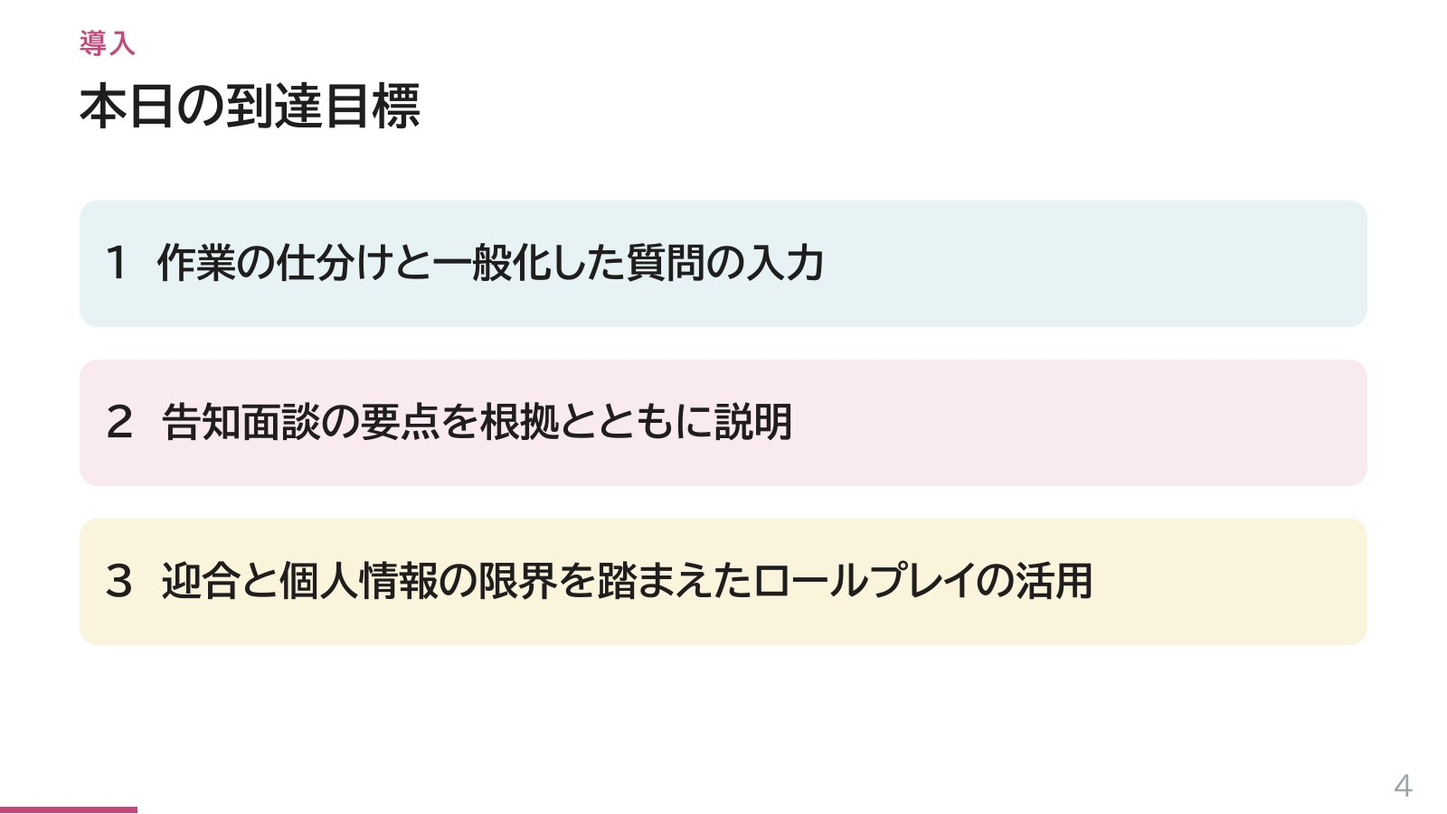
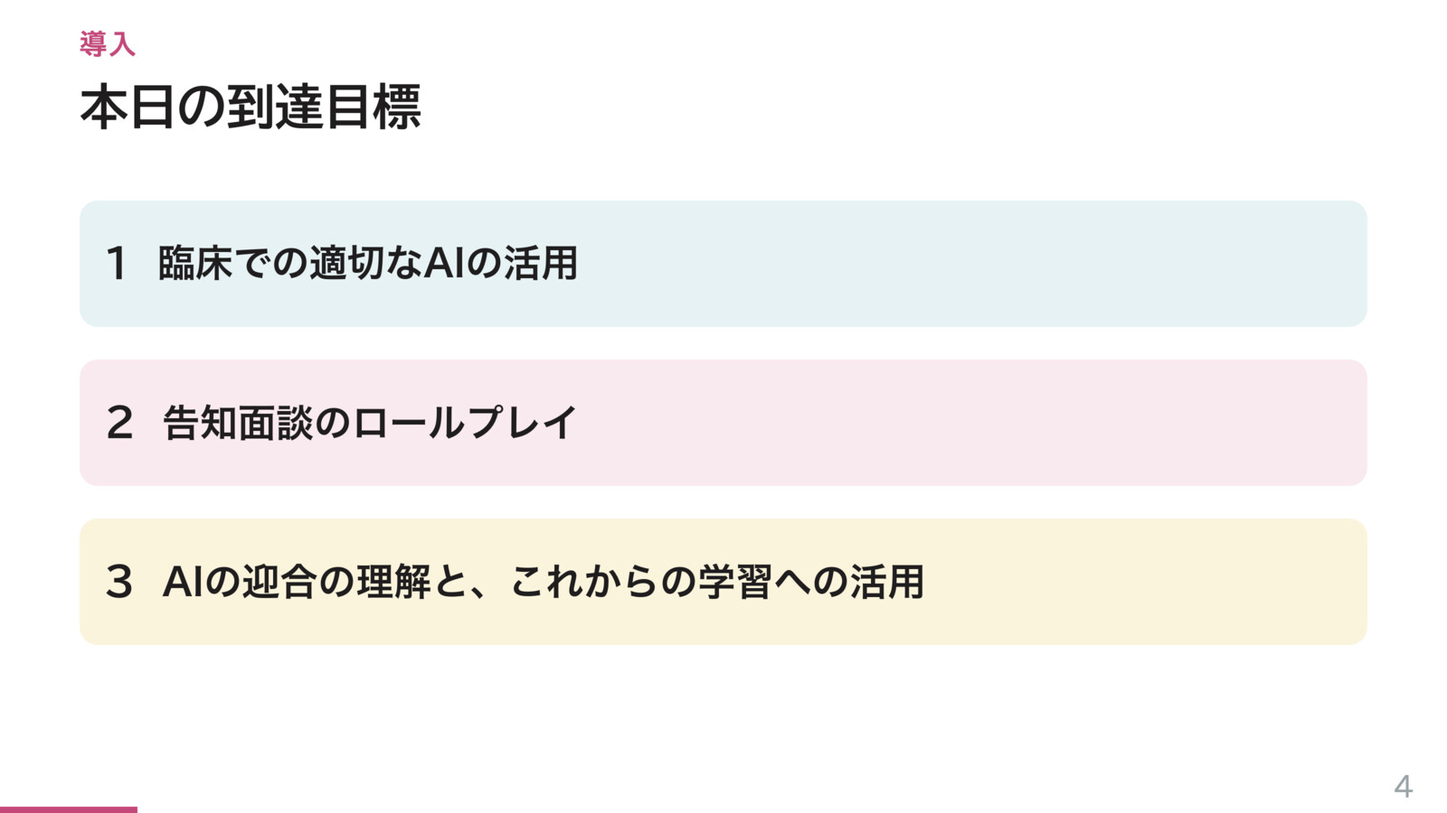
講演スライド4の到達目標を変更

diff --git a/slides/index.html b/slides/index.html
@@ -25,7 +25,7 @@ footer{margin-top:14px;font-size:13px;color:var(--sub);text-align:center;line-he
 <div class="links" id="ln"></div>
 <footer>当日の一部のスライドは省いています。スライド右下の番号は当日のものです。<br><a href="../">ロールプレイに戻る</a></footer>
 <script>
-const D=[{"n": 1, "alt": "もう一人の私（AI）に どうタスクシフトするか？ 日常診療を支える生成AI活用 香田将英 東北大学大学院医学系研究科 公衆衛生学分野 第59回日本小児内分泌学会学術集会 インタラクティブプレミアムセミナー 2026年11月7日"}, {"n": 2, "alt": "導入 利益相反の開示 演者 香田将英 講演料 サンド株式会社 2"}, {"n": 3, "alt": "導入 生成AIで作った3D作品 3", "v": [0.169, 0.191, 0.662, 0.662]}, {"n": 4, "alt": "導入 本日の到達目標 1 作業の仕分けと一般化した質問の入力 2 告知面談の要点を根拠とともに説明 3 迎合と個人情報の限界を踏まえたロールプレイの活用 4"}, {"n": 5, "alt": "AIの現在 生成AIの利用経験 2024年度調査 26.7% 2025年度調査 58.8% 生成AIを一度でも使ったことがある人の割合（日本） 総務省 令和8年版 情報通信白書 図表Ⅰ-1-1-1 5"}, {"n": 6, "alt": "AIの現在 年齢階層別の利用経験 91.7% 15〜19歳 78.2% 20〜29歳 56.3% 30〜39歳 40〜49歳 50〜59歳 60〜69歳 思春期の患者 49.0% 親の世代 親の世代 44.2% 33.5% 受診の前後にAIへ相談する可能性 総務省 令和8年版 情報通信白書 図表Ⅰ-1-1-7（一度でも使ったことがある人の割合） 6"}, {"n": 7, "alt": "AIの現在 本人の代わりに動き続けるAI 例：Claude Duet（Anthropic 2026-10-21）、同僚エージェント（Google 2026-10-09）、Muse （Meta 2026-10-23） 7", "v": [0.055, 0.191, 0.89, 0.722]}, {"n": 8, "alt": "AIの現在 AIに見えている範囲 Google Cloud Blog「Welcome to Gemini at Work 2026」2026-10-09 … it sees only what you share with it. 渡す範囲は持ち主が決定 職場のメールと患者情報は個人のAIに接続しない 8"}, {"n": 9, "alt": "AIの現在 電子カルテの中のAI Epic（Healthcare IT Today 2025-08-21）、NYU Langone（OpenEvidence 公式 2026-1029） 9", "v": [0.055, 0.191, 0.89, 0.722]}, {"n": 10, "alt": "", "v": [0.055, 0.191, 0.89, 0.722]}, {"n": 11, "alt": "AIの現在 日本の公開データ研究マップ 公的統計を使った研 究の地図 テーマ、データ源、年から 検索 毎日自動更新 https://shoei05.github.io/JapanStatsMAPs/ 11", "v": [0.055, 0.202, 0.65, 0.65], "l": [["JapanStatsMAPs", "https://shoei05.github.io/JapanStatsMAPs/"]]}, {"n": 12, "alt": "タスクシフト 日常診療の作業の仕分け 基準：間違いが起きたときに誰が責任を負うか／相手が人かどうか 12", "v": [0.055, 0.191, 0.89, 0.722]}, {"n": 13, "alt": "タスクシフト 診療情報提供書の下書きを作る場所 厚生労働省 医療情報システムの安全管理に関するガイドライン 第7.0版（2026年6月）企画管理編 8.2.3 13", "v": [0.055, 0.191, 0.89, 0.722]}, {"n": 14, "alt": "タスクシフト 3省2ガイドラインと入力の注意 検査データ、画像、病歴を一般向けの生成AIに入力 しない 国内法の適用外のサーバー上の文字起こしで診療録 にしない 対処：架空の例と一般化した質問、施設が契約した共通の環境 厚生労働省 医療情報システムの安全管理に関するガイドライン 第7.0版（2026年6月）／経済産業省・総務 省 提供事業者向けガイドライン。図：香田、ケアネット講演資料 14"}, {"n": 16, "alt": "論文検索 調べものに使うAIの4種類 臨床特化AI 汎用AI 論文探索AI 資料限定AI UpToDate Expert AI OpenEvidence ChatGPT、Gemini Claude Consensus Elicit Gemini Notebook Web全体 論文データベース 登録した手引き・ガイ ドラインのPDF 編集された臨床記 事、論文、ガイドライ ン 16"}, {"n": 18, "alt": "論文検索 個別の記述と一般化した質問 個別の記述（入力しない） 6歳女児、園の健診で低身長を指摘、母と受診、来週結果説明の予定 一般化した質問（入力する） 学童期の低身長の女児において、染色体検査はどのような場合に勧められるか。国内の 診療ガイドラインと手引きに基づいて答えてください 個別の情報を除外 ／ 対象と疑問を限定 ／ 根拠の種類を指定 ＝ 疑問の定式化 回答は引用元を開いて確認 ／ 患者への適用は医師 18"}, {"n": 19, "alt": "ロールプレイ AIを相手にした対人技能の練習 患者役のAI 面接と悪い知らせの伝え方の反復練習。実際の患 者への負担なし Yamamoto A, et al. JMIR Med Educ. 2024;10:e58753. 19"}, {"n": 20, "alt": "ロールプレイ 本日のロールプレイ ターナー症候群の告知、7つの場面 6歳女児の母親への結果説明 20"}, {"n": 21, "alt": "ロールプレイ 画面の流れ 21", "v": [0.169, 0.191, 0.662, 0.662]}, {"n": 22, "alt": "ロールプレイ 分岐型ロールプレイの使い方 shoei05.github.io/rp-6b9e3924/ 6名の卓を3名ずつ2チーム、片方は壁側へ 3名で1台、音量は3名に聞こえる程度 7場面で返答を3択、全体で約10分 22", "l": [["ロールプレイ", "https://shoei05.github.io/rp-6b9e3924/"]]}, {"n": 23, "alt": "ロールプレイ 体験（10分） shoei05.github.io/rp-6b9e3924/ 3名で1台 5分で場面4が目安 23", "l": [["ロールプレイ", "https://shoei05.github.io/rp-6b9e3924/"]]}, {"n": 24, "alt": "振り返り テーブル内の振り返り（5分） 問1 意見が分かれた返答 問2 次に試したい伝え方 元の6名に戻り、2チームの進み方を見比べる。ワークシートの裏面に記入 24"}, {"n": 25, "alt": "振り返り 全体共有（1〜2グループ） 7つの場面を通した感想 AIを相手にした練習の感想 1グループ約3分 25"}, {"n": 26, "alt": "解説 解説の根拠 ターナー症候群 診療の手引き 性分化疾患（DSD）の診療ガイドライン 2025年版 移行期医療における疾患別ガイド（日本小児科学会） 26"}, {"n": 27, "alt": "解説 場面1 導入 「やっぱり、ホルモンが足りないんでしょうか」 ◎ 前回は、ホルモンと、ターナーという体質を調べる染色体 の検査をしましたね。結果をお伝えする前に、このあいだ、 どんなことが気になっていましたか。 △ 「どのくらい詳しく聞きたいか」を先に尋ねる：何か問題があったのかと受け取 られる可能性 ESHG. Core competences for genetic counsellors. 2010、教材としての判断 27"}, {"n": 28, "alt": "解説 場面2 結果 「結果はどうでしたか」 ◎ 今回調べたホルモンは問題ありませんでした。染色体は、 女の子は通常X染色体が2本ですが、調べた細胞すべてで1 本でした。ターナー症候群と分かりました。 △ 「異常」の語は内容を伝えず負の印象だけを残す。「45,X」は説明なしでは伝わ らない 性分化疾患（DSD）の診療ガイドライン 2025年版 CQ3 p.14 28"}, {"n": 29, "alt": "解説 場面3 病気なのか 「病気なんですか。治るんですか」 ◎ 急なお話でしたね。生まれ持った染色体の特徴です。染 色体そのものを変える治療はありませんが、成長や健康を 支える治療はあります。心臓や腎臓も、これから確かめてい きます。 △ 「治癒は困難」と結論から伝える：何を支えられるかを示していない 移行期医療ガイド ターナー症候群 p.1、DSD診療ガイドライン 2025年版 CQ3 p.14 29"}, {"n": 30, "alt": "解説 場面4 私のせいか 「私のせいですか」 ◎ ご自身のせいではないかと心配されているんですね。妊 娠中の過ごし方が原因ではありません。お母さんにも、お父 さんにも責任はありません。 △ 答えずに治療の話へ移る：次の場面で同じ問いが重なる NHS. Turner syndrome: Causes、MedlinePlus Genetics. Turner syndrome 30"}, {"n": 31, "alt": "解説 場面5 背は伸びるか 「背は伸びるんでしょうか」 ◎ 成長を助ける治療があります。効果には個人差がありま すが、今から始める意味はあります。検査を確認して、負担 も含めて一緒に相談しましょう。 △ 期間と費用を断定し一度に話す：情報が多すぎる、不正確な断定 ターナー症候群診療の手引き p.6、CQ2 p.9、移行期医療ガイド p.2 31"}, {"n": 32, "alt": "解説 場面6 赤ちゃんは 「将来、赤ちゃんは産めますか」 ◎ めっけちゃんの場合、自然に妊娠することは難しいと考 えられます。急に将来の話まで出て、驚かれますよね。思春 期の体の変化のほうは、ホルモンの治療で支えられます。 △ 答えずに次回に回す：問いに応えていない 手引き CQ7 p.20、CQ8 p.22、DSD診療ガイドライン 2025年版 CQ11 p.49、CQ28 p.107 32"}, {"n": 33, "alt": "解説 場面7 夫と本人 「夫と本人にどう伝えたら」 ◎ ご希望があれば、次回ご主人にも一緒に聞いていただけ ます。難しければお母さんと続けましょう。めっけちゃんに は、年齢に合わせて少しずつ、一緒に伝えていきましょう。 △ 本人への説明を先延ばし／夫への説明を母親に任せる DSD診療ガイドライン 2025年版 CQ3 p.14、CQ11 p.49、CQ20 p.82-83 33"}, {"n": 34, "alt": "解説 訂正が必要とした3種類の返答 ✕ 合併症の評価前の保証：「ほかは健康ですから大丈夫」 ✕ 治療効果の保証：「ちゃんと伸びる」 ✕ 妊娠の断定と確約：「産めません」「凍結しておけば産める」 共通する点：確かめていないことの言い切り 移行期医療ガイド、ターナー症候群診療の手引き CQ2・CQ7・CQ8、性分化疾患の診療ガイドライン2025 CQ28 34"}, {"n": 35, "alt": "解説 根拠にした資料 直接の根拠：手引き、移行期医療ガイド 場面3・5・6 説明原則の準用：DSD-GL 場面1・2・3・6・7 公的機関の解説：NHS、MedlinePlus 場面4・5 書誌とURLの一覧 github.com/shoei05/rp-6b9e3924 の SOURCES.md 35", "l": [["書誌とURLの一覧（SOURCES.md）", "https://github.com/shoei05/rp-6b9e3924/blob/main/SOURCES.md"]]}, {"n": 36, "alt": "AIの限界 肯定と迎合 肯定 迎合（sycophancy） 相手の体験や感情を否定しない 相手の満足を優先して合わせる 治療的共感 AIの迎合 目的 自立と回復 満足度と対話の継続 沈黙 内省の時間 即座に空白を埋める 現実との検討 穏やかに直面化 無批判に同意 36"}, {"n": 37, "alt": "AIの限界 AIが肯定する頻度 +49% AI 11モデルが人より多く肯定 Cheng M, et al. Science. 2026;391:eaec8352. 2,405人の実験：1回の対話で確信が上昇、修復 の意欲が低下、それでも信頼された 37", "v": [0.055, 0.191, 0.89, 0.722]}, {"n": 38, "alt": "AIの限界 質問の仕方 避ける 「この方針でよいですよね」 勧める 中立に質問し、反対の立場の意見も 求める 38"}, {"n": 39, "alt": "AIの限界 AIの限界と対処 ハルシネーション 引用元を開いて確認 自動化バイアス 自分で考える → AIに問う → 比べる デスキリング AIなしで習得 → AIを利用 → 実技で評価 39"}, {"n": 40, "alt": "セミナー後 セミナー後の使い方 同じURLから何度でも。別の返答で振り返りを比較 GitHubのURLを生成AIに貼り、学ぶ点を質問 研修医・レジデントのトレーニング 40", "l": [["ロールプレイ", "https://shoei05.github.io/rp-6b9e3924/"], ["GitHub", "https://github.com/shoei05/rp-6b9e3924"]]}, {"n": 41, "alt": "まとめ AIに任せる仕事と医療者が担う仕事 AIへ 医療者が担う 文書の下書き 検索と要約 診断と方針の判断、子どもと家族への説明と対話、下 書きの確認と責任、後進の指導 個別の情報を含む文書は、電子カルテの機能か施設が契約した環境で 自分の言葉に直す 引用元を開いて確認 中立に質問 41"}, {"n": 42, "alt": "まとめ The Doctor 子どもと家族のそば で過ごす時間 Luke Fildes, The Doctor, 1891, Tate. Garibaldi BT, Russell SW. N Engl J Med. 2025;393:2142-50. 42"}];
+const D=[{"n": 1, "alt": "もう一人の私（AI）に どうタスクシフトするか？ 日常診療を支える生成AI活用 香田将英 東北大学大学院医学系研究科 公衆衛生学分野 第59回日本小児内分泌学会学術集会 インタラクティブプレミアムセミナー 2026年11月7日"}, {"n": 2, "alt": "導入 利益相反の開示 演者 香田将英 講演料 サンド株式会社 2"}, {"n": 3, "alt": "導入 生成AIで作った3D作品 3", "v": [0.169, 0.191, 0.662, 0.662]}, {"n": 4, "alt": "導入 本日の到達目標 1 臨床での適切なAIの活用 2 告知面談のロールプレイ 3 AIの迎合の理解と、これからの学習への活用 4"}, {"n": 5, "alt": "AIの現在 生成AIの利用経験 2024年度調査 26.7% 2025年度調査 58.8% 生成AIを一度でも使ったことがある人の割合（日本） 総務省 令和8年版 情報通信白書 図表Ⅰ-1-1-1 5"}, {"n": 6, "alt": "AIの現在 年齢階層別の利用経験 91.7% 15〜19歳 78.2% 20〜29歳 56.3% 30〜39歳 40〜49歳 50〜59歳 60〜69歳 思春期の患者 49.0% 親の世代 親の世代 44.2% 33.5% 受診の前後にAIへ相談する可能性 総務省 令和8年版 情報通信白書 図表Ⅰ-1-1-7（一度でも使ったことがある人の割合） 6"}, {"n": 7, "alt": "AIの現在 本人の代わりに動き続けるAI 例：Claude Duet（Anthropic 2026-10-21）、同僚エージェント（Google 2026-10-09）、Muse （Meta 2026-10-23） 7", "v": [0.055, 0.191, 0.89, 0.722]}, {"n": 8, "alt": "AIの現在 AIに見えている範囲 Google Cloud Blog「Welcome to Gemini at Work 2026」2026-10-09 … it sees only what you share with it. 渡す範囲は持ち主が決定 職場のメールと患者情報は個人のAIに接続しない 8"}, {"n": 9, "alt": "AIの現在 電子カルテの中のAI Epic（Healthcare IT Today 2025-08-21）、NYU Langone（OpenEvidence 公式 2026-1029） 9", "v": [0.055, 0.191, 0.89, 0.722]}, {"n": 10, "alt": "", "v": [0.055, 0.191, 0.89, 0.722]}, {"n": 11, "alt": "AIの現在 日本の公開データ研究マップ 公的統計を使った研 究の地図 テーマ、データ源、年から 検索 毎日自動更新 https://shoei05.github.io/JapanStatsMAPs/ 11", "v": [0.055, 0.202, 0.65, 0.65], "l": [["JapanStatsMAPs", "https://shoei05.github.io/JapanStatsMAPs/"]]}, {"n": 12, "alt": "タスクシフト 日常診療の作業の仕分け 基準：間違いが起きたときに誰が責任を負うか／相手が人かどうか 12", "v": [0.055, 0.191, 0.89, 0.722]}, {"n": 13, "alt": "タスクシフト 診療情報提供書の下書きを作る場所 厚生労働省 医療情報システムの安全管理に関するガイドライン 第7.0版（2026年6月）企画管理編 8.2.3 13", "v": [0.055, 0.191, 0.89, 0.722]}, {"n": 14, "alt": "タスクシフト 3省2ガイドラインと入力の注意 検査データ、画像、病歴を一般向けの生成AIに入力 しない 国内法の適用外のサーバー上の文字起こしで診療録 にしない 対処：架空の例と一般化した質問、施設が契約した共通の環境 厚生労働省 医療情報システムの安全管理に関するガイドライン 第7.0版（2026年6月）／経済産業省・総務 省 提供事業者向けガイドライン。図：香田、ケアネット講演資料 14"}, {"n": 16, "alt": "論文検索 調べものに使うAIの4種類 臨床特化AI 汎用AI 論文探索AI 資料限定AI UpToDate Expert AI OpenEvidence ChatGPT、Gemini Claude Consensus Elicit Gemini Notebook Web全体 論文データベース 登録した手引き・ガイ ドラインのPDF 編集された臨床記 事、論文、ガイドライ ン 16"}, {"n": 18, "alt": "論文検索 個別の記述と一般化した質問 個別の記述（入力しない） 6歳女児、園の健診で低身長を指摘、母と受診、来週結果説明の予定 一般化した質問（入力する） 学童期の低身長の女児において、染色体検査はどのような場合に勧められるか。国内の 診療ガイドラインと手引きに基づいて答えてください 個別の情報を除外 ／ 対象と疑問を限定 ／ 根拠の種類を指定 ＝ 疑問の定式化 回答は引用元を開いて確認 ／ 患者への適用は医師 18"}, {"n": 19, "alt": "ロールプレイ AIを相手にした対人技能の練習 患者役のAI 面接と悪い知らせの伝え方の反復練習。実際の患 者への負担なし Yamamoto A, et al. JMIR Med Educ. 2024;10:e58753. 19"}, {"n": 20, "alt": "ロールプレイ 本日のロールプレイ ターナー症候群の告知、7つの場面 6歳女児の母親への結果説明 20"}, {"n": 21, "alt": "ロールプレイ 画面の流れ 21", "v": [0.169, 0.191, 0.662, 0.662]}, {"n": 22, "alt": "ロールプレイ 分岐型ロールプレイの使い方 shoei05.github.io/rp-6b9e3924/ 6名の卓を3名ずつ2チーム、片方は壁側へ 3名で1台、音量は3名に聞こえる程度 7場面で返答を3択、全体で約10分 22", "l": [["ロールプレイ", "https://shoei05.github.io/rp-6b9e3924/"]]}, {"n": 23, "alt": "ロールプレイ 体験（10分） shoei05.github.io/rp-6b9e3924/ 3名で1台 5分で場面4が目安 23", "l": [["ロールプレイ", "https://shoei05.github.io/rp-6b9e3924/"]]}, {"n": 24, "alt": "振り返り テーブル内の振り返り（5分） 問1 意見が分かれた返答 問2 次に試したい伝え方 元の6名に戻り、2チームの進み方を見比べる。ワークシートの裏面に記入 24"}, {"n": 25, "alt": "振り返り 全体共有（1〜2グループ） 7つの場面を通した感想 AIを相手にした練習の感想 1グループ約3分 25"}, {"n": 26, "alt": "解説 解説の根拠 ターナー症候群 診療の手引き 性分化疾患（DSD）の診療ガイドライン 2025年版 移行期医療における疾患別ガイド（日本小児科学会） 26"}, {"n": 27, "alt": "解説 場面1 導入 「やっぱり、ホルモンが足りないんでしょうか」 ◎ 前回は、ホルモンと、ターナーという体質を調べる染色体 の検査をしましたね。結果をお伝えする前に、このあいだ、 どんなことが気になっていましたか。 △ 「どのくらい詳しく聞きたいか」を先に尋ねる：何か問題があったのかと受け取 られる可能性 ESHG. Core competences for genetic counsellors. 2010、教材としての判断 27"}, {"n": 28, "alt": "解説 場面2 結果 「結果はどうでしたか」 ◎ 今回調べたホルモンは問題ありませんでした。染色体は、 女の子は通常X染色体が2本ですが、調べた細胞すべてで1 本でした。ターナー症候群と分かりました。 △ 「異常」の語は内容を伝えず負の印象だけを残す。「45,X」は説明なしでは伝わ らない 性分化疾患（DSD）の診療ガイドライン 2025年版 CQ3 p.14 28"}, {"n": 29, "alt": "解説 場面3 病気なのか 「病気なんですか。治るんですか」 ◎ 急なお話でしたね。生まれ持った染色体の特徴です。染 色体そのものを変える治療はありませんが、成長や健康を 支える治療はあります。心臓や腎臓も、これから確かめてい きます。 △ 「治癒は困難」と結論から伝える：何を支えられるかを示していない 移行期医療ガイド ターナー症候群 p.1、DSD診療ガイドライン 2025年版 CQ3 p.14 29"}, {"n": 30, "alt": "解説 場面4 私のせいか 「私のせいですか」 ◎ ご自身のせいではないかと心配されているんですね。妊 娠中の過ごし方が原因ではありません。お母さんにも、お父 さんにも責任はありません。 △ 答えずに治療の話へ移る：次の場面で同じ問いが重なる NHS. Turner syndrome: Causes、MedlinePlus Genetics. Turner syndrome 30"}, {"n": 31, "alt": "解説 場面5 背は伸びるか 「背は伸びるんでしょうか」 ◎ 成長を助ける治療があります。効果には個人差がありま すが、今から始める意味はあります。検査を確認して、負担 も含めて一緒に相談しましょう。 △ 期間と費用を断定し一度に話す：情報が多すぎる、不正確な断定 ターナー症候群診療の手引き p.6、CQ2 p.9、移行期医療ガイド p.2 31"}, {"n": 32, "alt": "解説 場面6 赤ちゃんは 「将来、赤ちゃんは産めますか」 ◎ めっけちゃんの場合、自然に妊娠することは難しいと考 えられます。急に将来の話まで出て、驚かれますよね。思春 期の体の変化のほうは、ホルモンの治療で支えられます。 △ 答えずに次回に回す：問いに応えていない 手引き CQ7 p.20、CQ8 p.22、DSD診療ガイドライン 2025年版 CQ11 p.49、CQ28 p.107 32"}, {"n": 33, "alt": "解説 場面7 夫と本人 「夫と本人にどう伝えたら」 ◎ ご希望があれば、次回ご主人にも一緒に聞いていただけ ます。難しければお母さんと続けましょう。めっけちゃんに は、年齢に合わせて少しずつ、一緒に伝えていきましょう。 △ 本人への説明を先延ばし／夫への説明を母親に任せる DSD診療ガイドライン 2025年版 CQ3 p.14、CQ11 p.49、CQ20 p.82-83 33"}, {"n": 34, "alt": "解説 訂正が必要とした3種類の返答 ✕ 合併症の評価前の保証：「ほかは健康ですから大丈夫」 ✕ 治療効果の保証：「ちゃんと伸びる」 ✕ 妊娠の断定と確約：「産めません」「凍結しておけば産める」 共通する点：確かめていないことの言い切り 移行期医療ガイド、ターナー症候群診療の手引き CQ2・CQ7・CQ8、性分化疾患の診療ガイドライン2025 CQ28 34"}, {"n": 35, "alt": "解説 根拠にした資料 直接の根拠：手引き、移行期医療ガイド 場面3・5・6 説明原則の準用：DSD-GL 場面1・2・3・6・7 公的機関の解説：NHS、MedlinePlus 場面4・5 書誌とURLの一覧 github.com/shoei05/rp-6b9e3924 の SOURCES.md 35", "l": [["書誌とURLの一覧（SOURCES.md）", "https://github.com/shoei05/rp-6b9e3924/blob/main/SOURCES.md"]]}, {"n": 36, "alt": "AIの限界 肯定と迎合 肯定 迎合（sycophancy） 相手の体験や感情を否定しない 相手の満足を優先して合わせる 治療的共感 AIの迎合 目的 自立と回復 満足度と対話の継続 沈黙 内省の時間 即座に空白を埋める 現実との検討 穏やかに直面化 無批判に同意 36"}, {"n": 37, "alt": "AIの限界 AIが肯定する頻度 +49% AI 11モデルが人より多く肯定 Cheng M, et al. Science. 2026;391:eaec8352. 2,405人の実験：1回の対話で確信が上昇、修復 の意欲が低下、それでも信頼された 37", "v": [0.055, 0.191, 0.89, 0.722]}, {"n": 38, "alt": "AIの限界 質問の仕方 避ける 「この方針でよいですよね」 勧める 中立に質問し、反対の立場の意見も 求める 38"}, {"n": 39, "alt": "AIの限界 AIの限界と対処 ハルシネーション 引用元を開いて確認 自動化バイアス 自分で考える → AIに問う → 比べる デスキリング AIなしで習得 → AIを利用 → 実技で評価 39"}, {"n": 40, "alt": "セミナー後 セミナー後の使い方 同じURLから何度でも。別の返答で振り返りを比較 GitHubのURLを生成AIに貼り、学ぶ点を質問 研修医・レジデントのトレーニング 40", "l": [["ロールプレイ", "https://shoei05.github.io/rp-6b9e3924/"], ["GitHub", "https://github.com/shoei05/rp-6b9e3924"]]}, {"n": 41, "alt": "まとめ AIに任せる仕事と医療者が担う仕事 AIへ 医療者が担う 文書の下書き 検索と要約 診断と方針の判断、子どもと家族への説明と対話、下 書きの確認と責任、後進の指導 個別の情報を含む文書は、電子カルテの機能か施設が契約した環境で 自分の言葉に直す 引用元を開いて確認 中立に質問 41"}, {"n": 42, "alt": "まとめ The Doctor 子どもと家族のそば で過ごす時間 Luke Fildes, The Doctor, 1891, Tate. Garibaldi BT, Russell SW. N Engl J Med. 2025;393:2142-50. 42"}];
 const $=i=>document.getElementById(i),st=$('stage'),im=$('im');
 const nm=n=>String(n).padStart(2,'0');let i=0;
 function go(k,push=true){i=Math.max(0,Math.min(D.length-1,k));const d=D[i];
